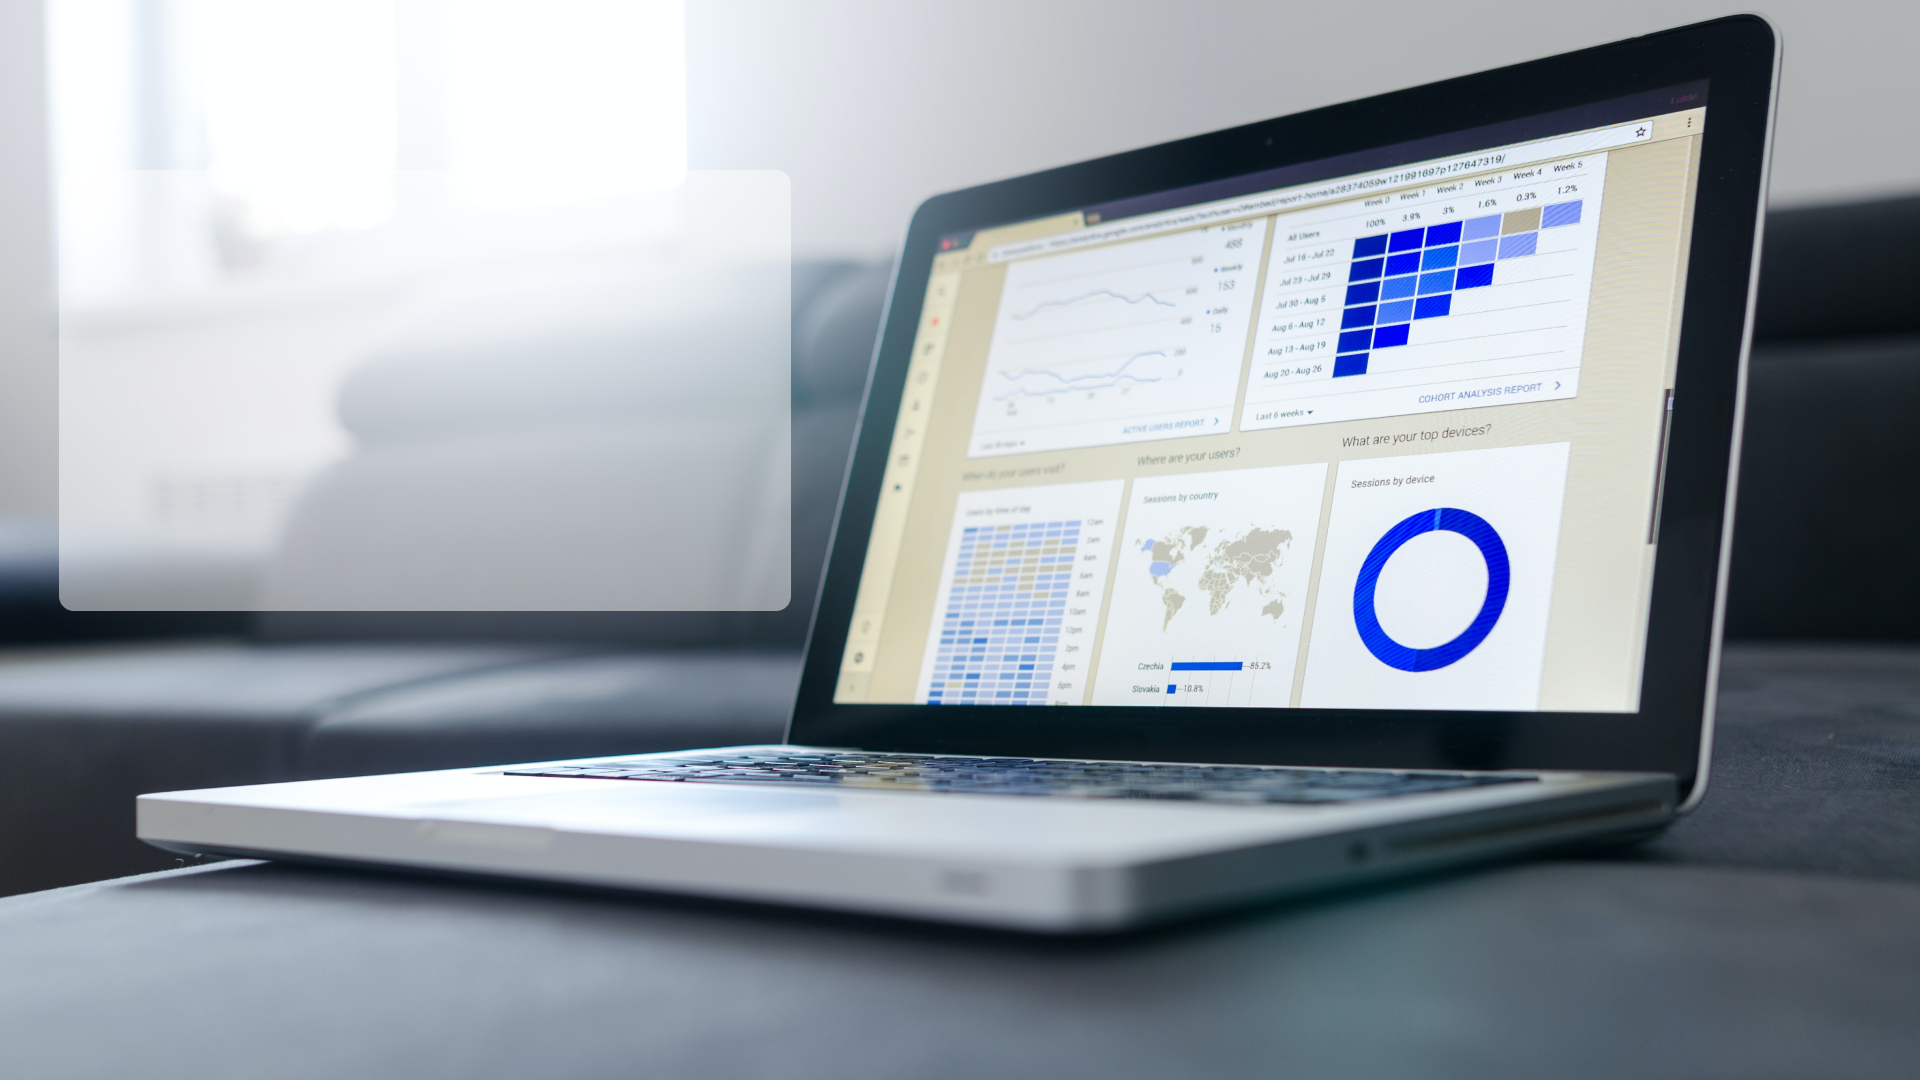
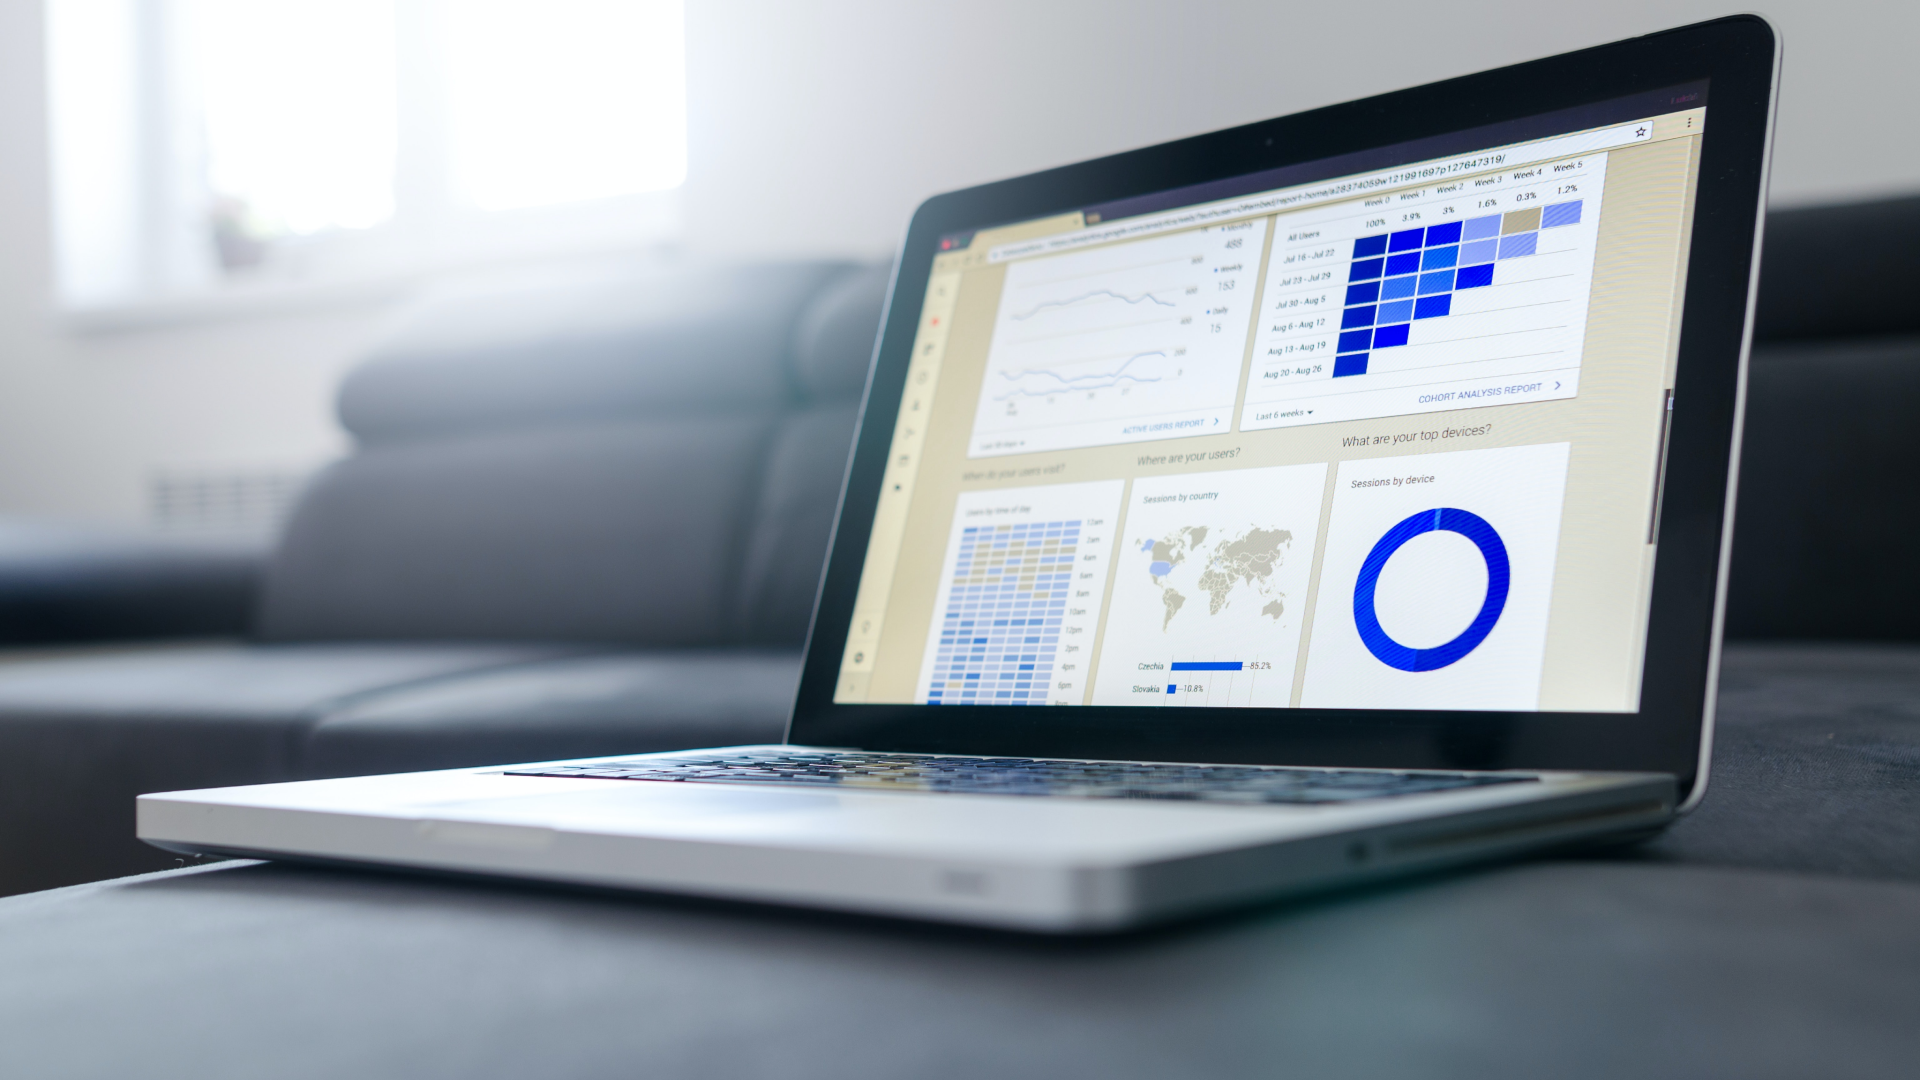
fix

Changed region(s): [[0.0312, 0.1833, 0.4375, 0.5806]]

diff --git a/templates/index.html b/templates/index.html
@@ -2,5 +2,19 @@
 {% load static %}
 
 {% block container %}
-    <div class="h-auto w-100" style="background-image: url({% static "assets/img/bg-index.png" %})">&nbsp;</div>
+    <div class="h-auto w-100" style="background-image: url({% static "assets/img/bg-index.png" %})">
+
+    <div class="row project-name-card">
+        <div class="offset-1 col-6">
+            <h2>Информационно-аналитическая система
+
+            </h2>
+            <h1  class="text-primary">#СитиВижн</h1>
+
+
+            <a href="" class="w-25 mt-5 btn btn-primary btn-lg text-uppercase">Войти</a>
+        </div>
+    </div>
+
+    </div>
 {% endblock %}

diff --git a/static_src/assets/css/panel.css b/static_src/assets/css/panel.css
@@ -4670,3 +4670,12 @@ tr.group {
     border-radius: 10px !important;
     padding: 15px;
 }
+
+.project-name-card {
+    margin-top: 15%;
+    background-color: rgba(255,255,255,0.7);
+    padding: 50px;
+}
+.project-name-card h1 {
+    font-size: 42px;
+}
